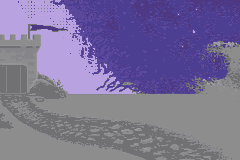
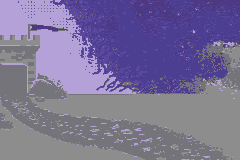
The game now works without any sprite limits issue

diff --git a/src/lib.rs b/src/lib.rs
@@ -12,6 +12,7 @@ use agb::{include_aseprite, include_background_gfx};
 use player::*;
 
 use crate::gamestate::GameState;
+use crate::scenario::{Scenario, ScenarioType};
 
 pub mod gamestate;
 pub mod player;
@@ -19,7 +20,7 @@ pub mod scenario;
 
 include_background_gfx!(
     mod background,
-    // game => deduplicate "gfx/background.png",
+    game => deduplicate "gfx/background.png",
     blue => deduplicate "gfx/background-full-blue.png",
     red => deduplicate "gfx/background-full-red.png",
     green => deduplicate "gfx/background-full-green.png",
@@ -41,6 +42,15 @@ pub enum ActionType {
     Attack,
     Shield,
     Jump,
+}
+
+pub fn update_full_background(scenario: &Scenario, background: &mut RegularBackground) {
+    let bg = match scenario.state[3] {
+        ScenarioType::Water => &background::blue,
+        ScenarioType::Volcano => &background::red,
+        ScenarioType::Swamp => &background::green,
+    };
+    background.fill_with(&bg);
 }
 
 pub fn main(mut gba: agb::Gba) -> ! {
@@ -75,10 +85,10 @@ pub fn main(mut gba: agb::Gba) -> ! {
     let mut button_right = Object::new(buttons::RED.sprite(0));
     button_right.set_pos((132 - 8, 135 - 7));
 
-    game_bg.fill_with(&background::red);
-    full_bg.fill_with(&background::red);
-
     let mut game = GameState::new();
+
+    game_bg.fill_with(&background::game);
+    update_full_background(&game.scenario, &mut full_bg);
 
     let mut counter = 0;
 
@@ -107,23 +117,19 @@ pub fn main(mut gba: agb::Gba) -> ! {
         frame.commit();
         input.update();
 
-        if input.is_just_pressed(Button::LEFT)
-            || input.is_just_pressed(Button::UP)
-            || input.is_just_pressed(Button::RIGHT)
-            || input.is_just_pressed(Button::DOWN)
-        {
-            full_bg.fill_with(&background::blue);
+        if input.is_just_pressed(Button::L) {
             game.do_action(ActionType::Attack, &mut player);
+            update_full_background(&game.scenario, &mut full_bg);
         }
 
-        if input.is_just_pressed(Button::B) {
-            full_bg.fill_with(&background::red);
+        if input.is_just_pressed(Button::B) || input.is_just_pressed(Button::A) {
             game.do_action(ActionType::Shield, &mut player);
+            update_full_background(&game.scenario, &mut full_bg);
         }
 
-        if input.is_just_pressed(Button::A) {
-            full_bg.fill_with(&background::green);
+        if input.is_just_pressed(Button::R) {
             game.do_action(ActionType::Jump, &mut player);
+            update_full_background(&game.scenario, &mut full_bg);
         }
 
         counter += 1;

diff --git a/src/scenario.rs b/src/scenario.rs
@@ -32,7 +32,7 @@ enum ScenarioSize {
 }
 
 #[derive(Copy, Clone)]
-enum ScenarioType {
+pub enum ScenarioType {
     Water,
     Volcano,
     Swamp,
@@ -62,7 +62,7 @@ const fn get_object(s_size: &ScenarioSize, s_type: &ScenarioType) -> &'static Ta
 }
 
 pub struct Scenario {
-    state: [ScenarioType; 4],
+    pub state: [ScenarioType; 4],
     small_sprite: [Object; 3],
     medium_sprite: [Object; 4],
     big_sprite: [Object; 4],

diff --git a/src/gamestate.rs b/src/gamestate.rs
@@ -5,13 +5,7 @@ use crate::player::Player;
 use crate::scenario::Scenario;
 
 pub struct GameState {
-    scenario: Scenario,
-}
-
-impl Default for GameState {
-    fn default() -> Self {
-        Self::new()
-    }
+    pub scenario: Scenario,
 }
 
 impl GameState {
